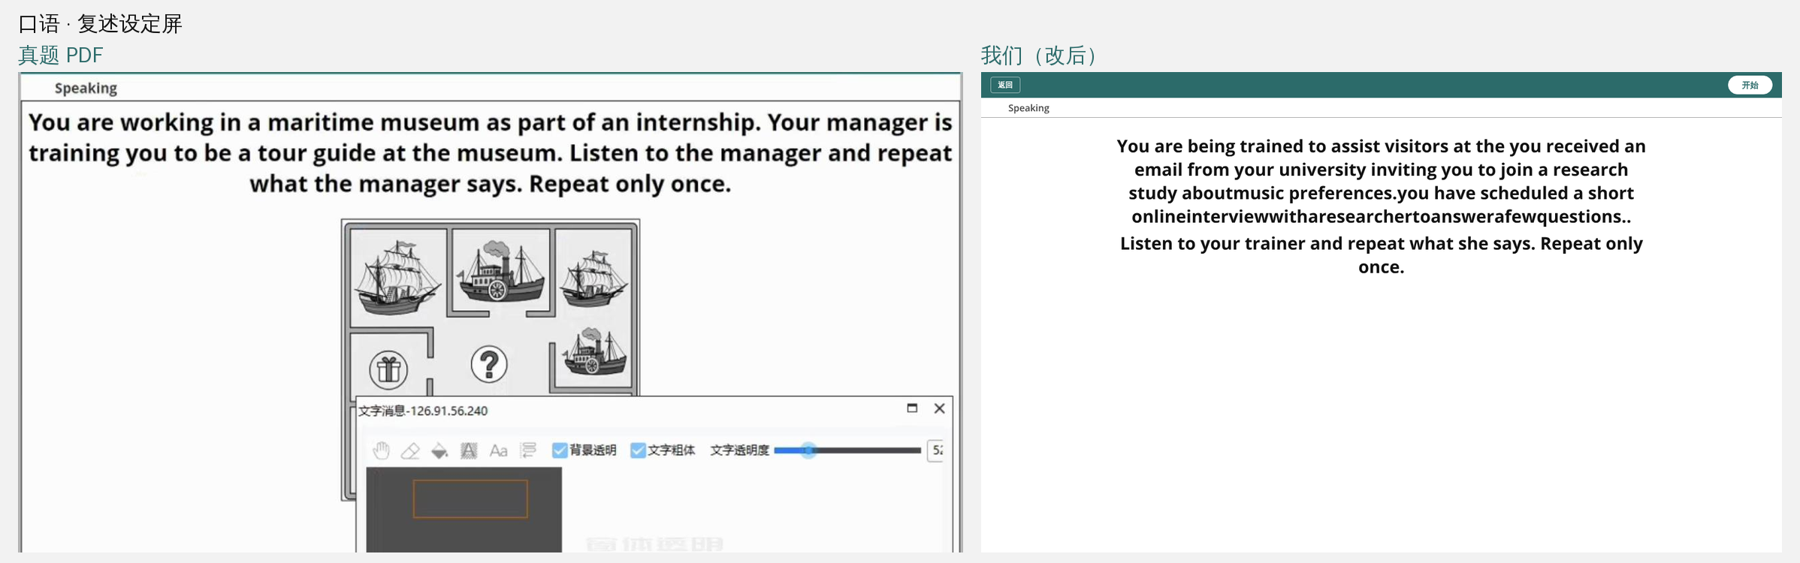
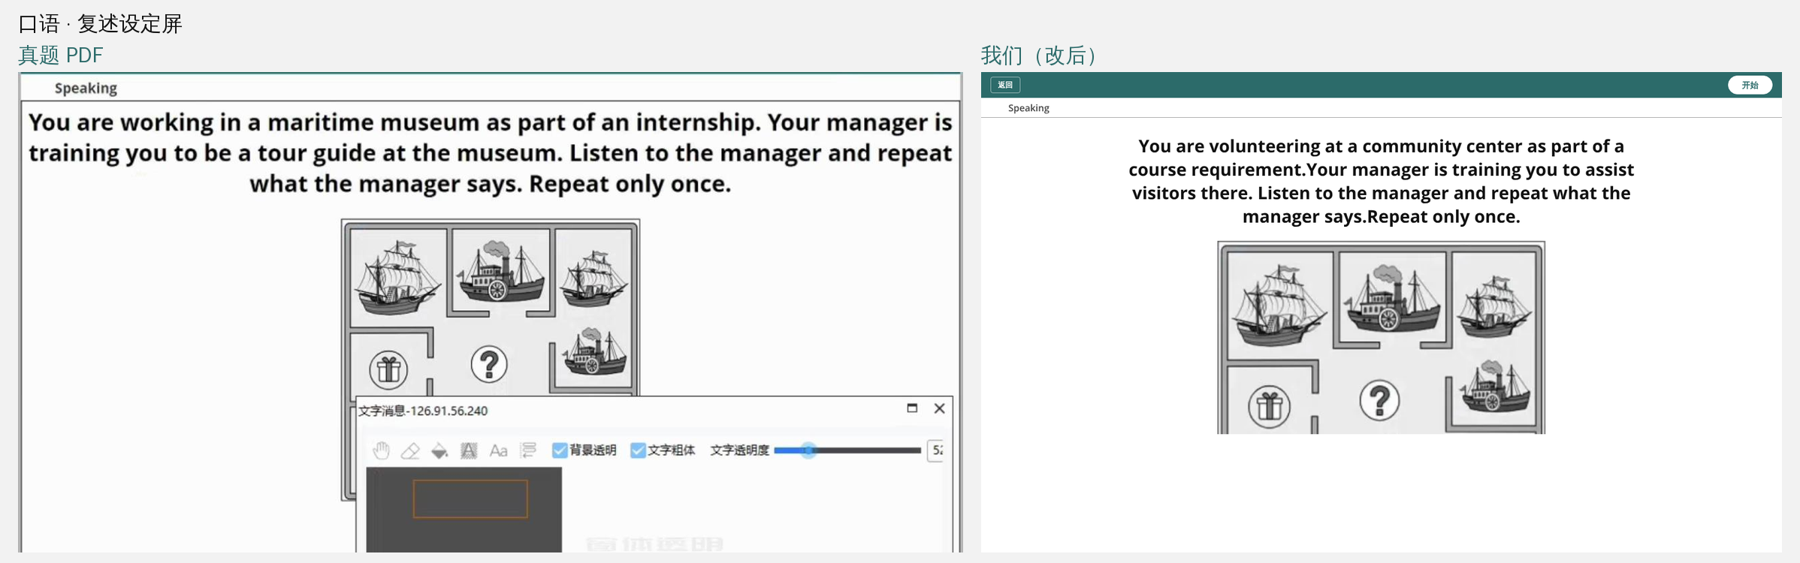
真题模考口语：复述场景插图按真题外观放大，设定屏原样显示原卷提示语
- SceneImage 加 ets 外观：方角无描边、约半屏高，复述设定屏与作答页都带图（有图的套）
- 真题模考复述的 setInfo 与真题专区一致：scenario 原样作 settingText，不再拼出
  「…visitors at the you are …」这种病句
- 对比图 10/11 换成带插图的复述题（沙箱拿不到 Supabase 图，截图里用 PDF 里的平面图代替）

Claude-Session: https://claude.ai/code/session_015AvSK1BvfT6rErRUogVjxP

Changed region(s): [[0.6222, 0.2416, 0.9333, 0.7851]]

diff --git a/components/speaking/SceneImage.js b/components/speaking/SceneImage.js
@@ -12,7 +12,8 @@ import { C } from "../shared/ui";
  * 手机端占满宽度、高度自适应；桌面端限宽居中。带得到原始宽高时一并写上 width/height 与
  * aspectRatio，让浏览器提前留出位置，图到位时不跳版。
  */
-export function SceneImage({ frame, marginBottom = 20 }) {
+// ets：真题模考外观 —— 照真考截图，图更大（约半屏高）、方角无描边。
+export function SceneImage({ frame, marginBottom = 20, ets = false }) {
   const [broken, setBroken] = useState(false);
   if (!frame || !frame.url || broken) return null;
   const { url, w, h } = frame;
@@ -20,8 +21,8 @@ export function SceneImage({ frame, marginBottom = 20 }) {
   // 竖版图（平面图类接近 4:5）按满宽铺会有 500px+ 高，把听/录音控件顶出首屏。
   // 限高靠收窄 maxWidth 实现（高度仍由 aspectRatio 推出），不裁图、不变形。
   const maxWidth = sized
-    ? `min(420px, calc(min(42vh, 360px) * ${(w / h).toFixed(4)}))`
-    : 420;
+    ? (ets ? `min(560px, calc(min(52vh, 440px) * ${(w / h).toFixed(4)}))` : `min(420px, calc(min(42vh, 360px) * ${(w / h).toFixed(4)}))`)
+    : (ets ? 560 : 420);
   return (
     <div style={{ marginBottom }}>
       <img
@@ -32,7 +33,7 @@ export function SceneImage({ frame, marginBottom = 20 }) {
         onError={() => setBroken(true)}
         style={{
           display: "block", width: "100%", maxWidth, height: "auto",
-          margin: "0 auto", borderRadius: 12, border: `1px solid ${C.bdr}`,
+          margin: "0 auto", borderRadius: ets ? 0 : 12, border: ets ? "none" : `1px solid ${C.bdr}`,
           ...(sized ? { aspectRatio: `${w} / ${h}` } : {}),
         }}
       />

diff --git a/components/mockExam/SpeakingExamShell.js b/components/mockExam/SpeakingExamShell.js
@@ -533,7 +533,9 @@ function SpeakingExamShellInner({ onExit, realMock = false }) {
       {phase === "repeat" && exam?.repeatSet && !(realMock && error) && (
         <RepeatTask
           items={exam.repeatSet.sentences || []}
-          setInfo={exam.repeatSet}
+          // 真题：scenario 是整段原卷提示语（含「Repeat only once.」），照真题专区原样上屏，
+          // 不能交给 buildRepeatIntro 当地点短语拼模板（会拼出 "…visitors at the you are …" 病句）。
+          setInfo={realMock && exam.repeatSet.scenario ? { ...exam.repeatSet, settingText: exam.repeatSet.scenario, instructionText: "" } : exam.repeatSet}
           onComplete={handleRepeatComplete}
           onExit={onExit}
           isPractice={false}

diff --git a/components/speaking/RepeatTask.js b/components/speaking/RepeatTask.js
@@ -971,7 +971,7 @@ function RepeatTaskInner({ items, setInfo = null, onComplete, onExit, realMock =
         <SurfaceCard style={{ padding: ets ? "8px 28px 32px" : "32px 28px", textAlign: "center", ...(ets ? ETS_FLAT_CARD : {}) }}>
           {/* 场景插图：听句 / 录音 / 复盘三阶段都常驻卡片顶部，按当前句切高亮帧。
               key 带上 url —— 换帧时重新挂载，上一帧的加载失败状态不会粘在新帧上。 */}
-          {sceneFrame && <SceneImage key={sceneFrame.url} frame={sceneFrame} />}
+          {sceneFrame && <SceneImage key={sceneFrame.url} frame={sceneFrame} ets={ets} />}
 
           {/* Phase: Listen */}
           {phase === "listen" && ets && (

diff --git a/components/speaking/SpeakingIntroScreen.js b/components/speaking/SpeakingIntroScreen.js
@@ -115,7 +115,7 @@ export function SpeakingIntroScreen({
               </div>
             ))}
           </div>
-          {pic ? <SceneImage frame={pic} /> : etsFigure ? <EtsFigure count={etsFigure} seed={title} style={{ height: 300 }} /> : null}
+          {pic ? <SceneImage frame={pic} ets /> : etsFigure ? <EtsFigure count={etsFigure} seed={title} style={{ height: 300 }} /> : null}
         </div>
         <EtsNav><EtsNavButton onClick={onStart}>{buttonLabel}</EtsNavButton></EtsNav>
       </div>
